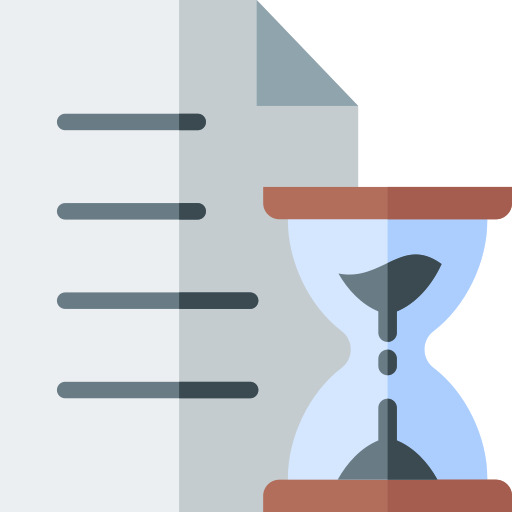
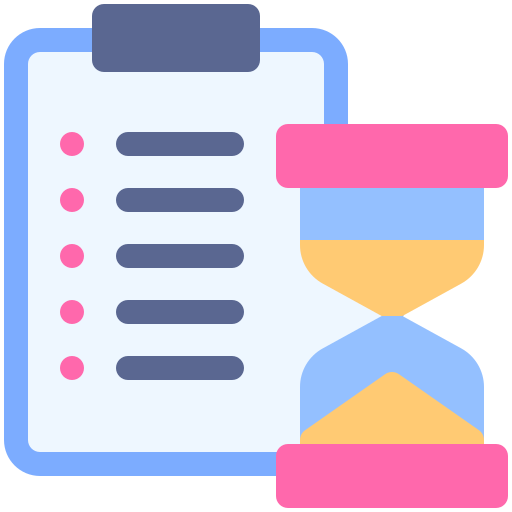
memberStats, movieStats 진짜완료

diff --git a/MovieSite/src/main/resources/templates/master/memberStats.html b/MovieSite/src/main/resources/templates/master/memberStats.html
@@ -461,7 +461,7 @@
 				<img class="icon" src="/img/RequestStatus.png" alt="">&nbsp;&nbsp;&nbsp;
 				<div class="status-text">
 					<span class="pending-highlight">· 처리 필요 : <span id="pendingCount"></span> 건</span>
-					<br>
+					<br><br>
 					· 처리 완료 : <span id="completedCount"></span> 건
 				</div>
 			</div>
